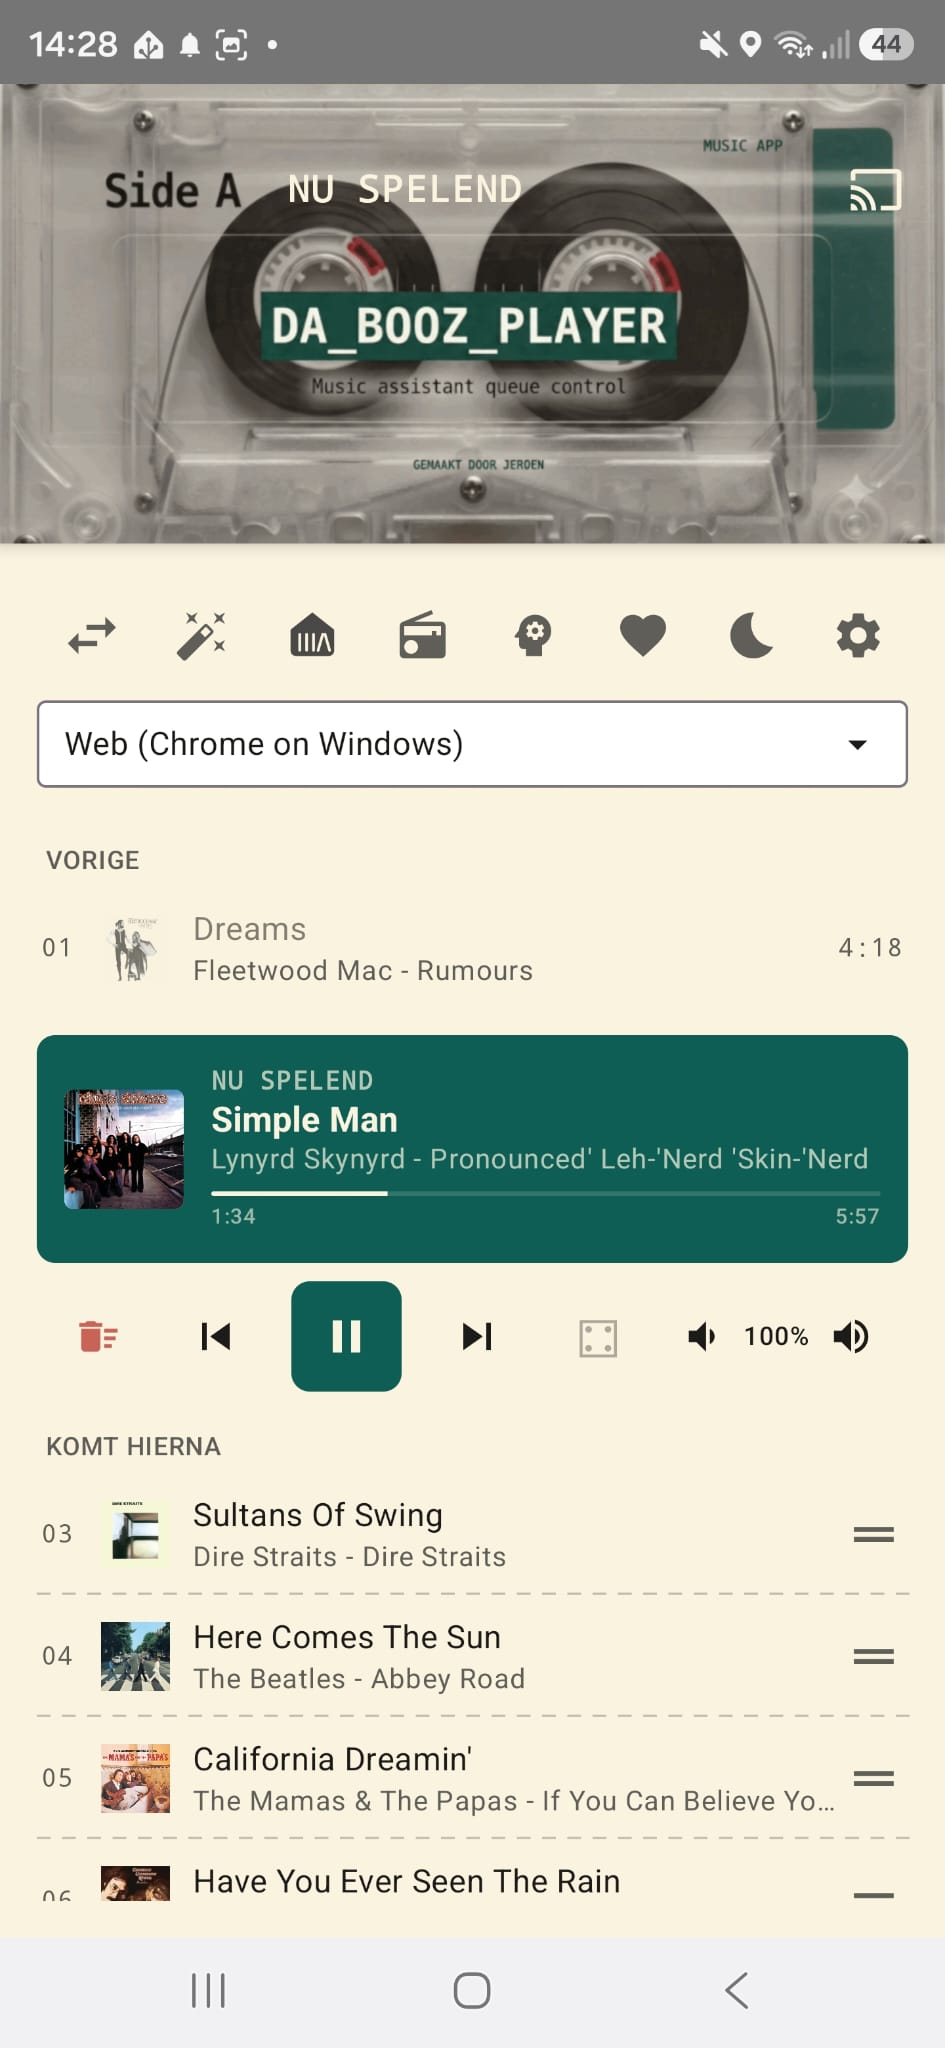
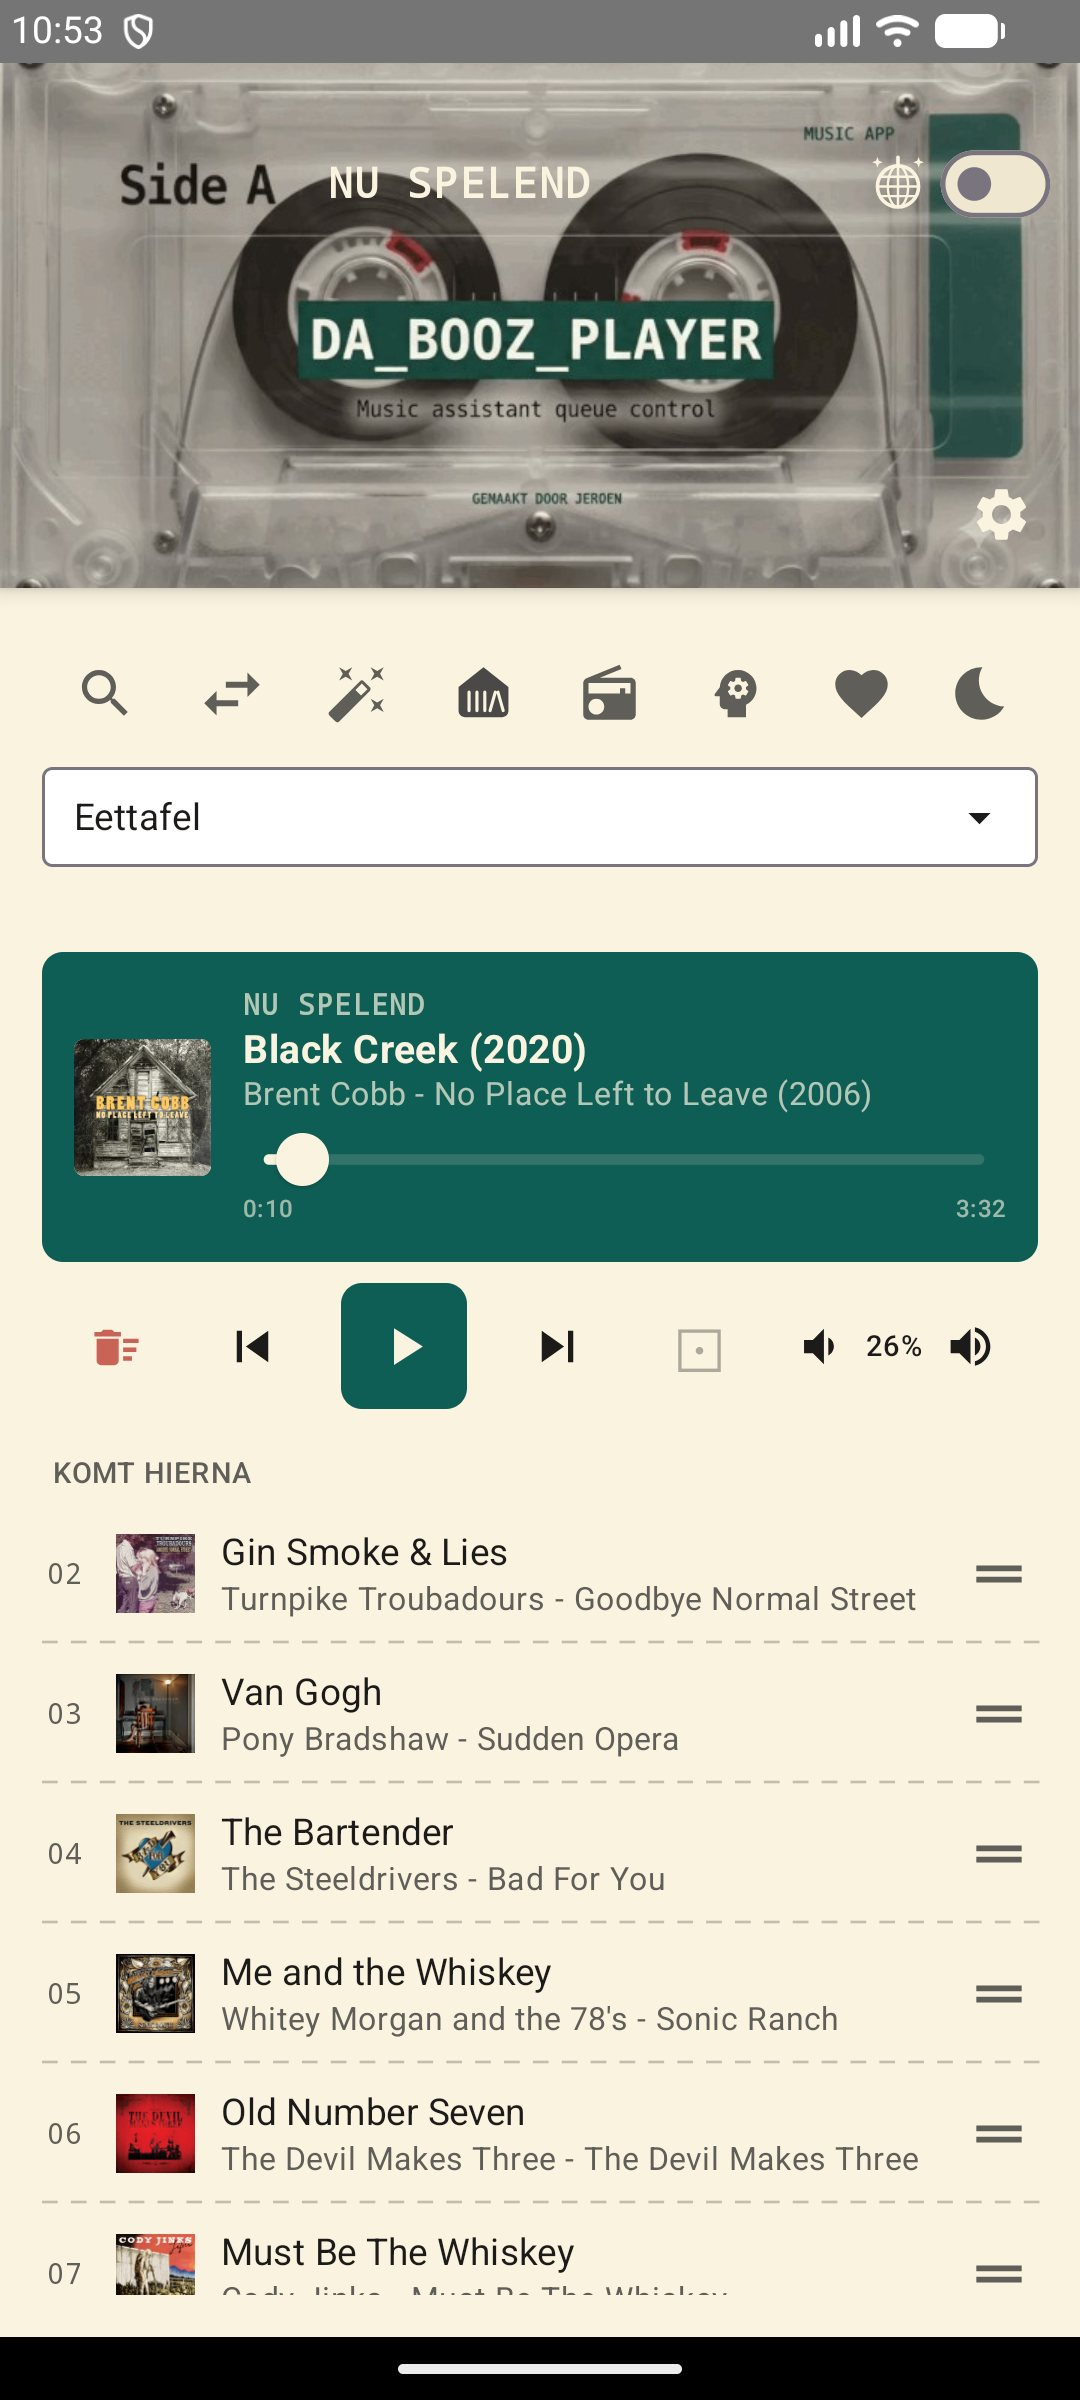
Use 5% volume steps; refresh README screenshot and drop cast section

diff --git a/app/src/main/java/nl/jeroen/massqueue/MassViewModel.kt b/app/src/main/java/nl/jeroen/massqueue/MassViewModel.kt
@@ -27,7 +27,7 @@ private const val DEFAULT_HOST_INSTRUCTIONS_NL =
 private const val WIZARD_STATION_NAME = "Wizard"
 
 /** Stapgrootte (procentpunten) voor volume +/-. */
-private const val GROUP_VOLUME_STEP = 2
+private const val GROUP_VOLUME_STEP = 5
 
 private const val DEFAULT_SECTION_PROMPT_NL =
     "De vorige track was <prev_songinfo> en de volgende track is <next_songinfo>. " +

diff --git a/README.md b/README.md
@@ -27,7 +27,7 @@ De app is zich bewust van zijn locatie om de interface schoon en relevant te hou
 ### 2. Geavanceerd Volume-beheer & Aliassen
 - **Hardware Knoppen**: De volumeknoppen van je telefoon bedienen direct de actieve speler. In de instellingen vink je eenvoudig aan voor welke spelers dit actief moet zijn.
 - **Groepsvolume**: Bij groepsspelers (sync groups zoals "Eettafel" of "Woonkamer Totaal") regelen de +/−-knoppen het groepsvolume via `players/cmd/group_volume`, net als de schuif in de Music Assistant-webinterface, en tonen ze het echte groepsvolume in plaats van 0%.
-- **Stappen van 2% & echt stil bij 0%**: Volume gaat in stappen van 2%. Op 0% is de speler echt stil: losse spelers worden ook gemute, en bij een groep die al op 0 staat stuurt de app eerst kort 1% zodat de 0 echt bij de speakers aankomt.
+- **Stappen van 5% & echt stil bij 0%**: Volume gaat in stappen van 5%. Op 0% is de speler echt stil: losse spelers worden ook gemute, en bij een groep die al op 0 staat stuurt de app eerst kort 1% zodat de 0 echt bij de speakers aankomt.
 - **Disco-schakelaar** 🪩: Rechtsboven op het cassettebandje staat een schakelaar met een discobal. Aan voegt de Hue-lichtspeler "Hue: disco woonkamer" toe aan de groep van de gekozen speler (zodat de lampen meebewegen op de muziek), uit haalt hem er weer uit. De stand volgt wat Music Assistant rapporteert. Het tandwiel voor de instellingen zit rechtsonder op het bandje.
 - **Speler Aliassen**: Geef je speakers eigen "roepnamen" (bijv. "Yamaha Living" -> "Woonkamer") die overal in de app worden gebruikt.
 - **Slimme Spelerkeuze**: De dropdown sorteert spelers die nu spelen bovenaan (meest recent gestart eerst), gevolgd door spelers met een geladen wachtrij, en de rest alfabetisch. Bij het eerste opstarten kiest de app om dezelfde reden ook zo'n speler als standaard, in plaats van gewoon de alfabetisch eerste.
@@ -39,7 +39,6 @@ De app is zich bewust van zijn locatie om de interface schoon en relevant te hou
 - **Wachtrijbeheer**: Bekijk tot wel 50 nummers in de wachtrij, skip, shuffle (geanimeerde dobbelsteen) of wis de lijst.
 - **Wachtrij slepen**: Elk "Komt hierna"-nummer heeft een sleep-handle in de lijst zelf; bij loslaten volgt één `player_queues/move_item` met de netto verschuiving.
 - **Muziek Verhuizen (Transfer)**: Verplaats je actuele wachtrij met één klik naar een andere speler.
-- **Casten** 📡: Een cast-knop rechtsboven opent een lijst met apparaten; kies er één en de speler + muziek verhuist ernaartoe (met auto-play). Chromecast-/Google Cast-/Nest-apparaten staan bovenaan met een cast-icoon.
 - **Releasejaar**: Naast de titel van het nu spelende nummer verschijnt, waar bekend, het releasejaar — uit Music Assistant's eigen metadata, of anders (bijv. bij radio) via een gefilterde iTunes-zoekopdracht met caching per zoekterm.
 - **Vloeiende voortgangsbalk**: De positie loopt lokaal door tussen de serverpolls in, zodat de balk soepel meebeweegt in plaats van te verspringen.
 - **Spoelen**: Versleep de voortgangsbalk om naar een ander punt in het nummer te springen; het spoel-commando gaat pas naar de server als je loslaat.
